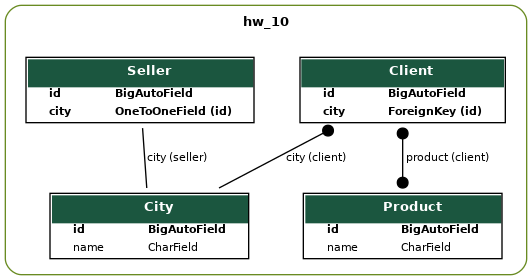
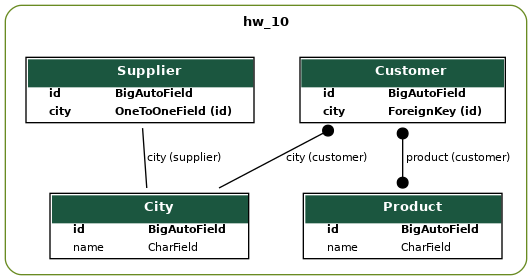
hw_10 commit

diff --git a/hw_10/migrations/0001_initial.py b/hw_10/migrations/0001_initial.py
@@ -1,4 +1,4 @@
-# Generated by Django 4.0 on 2022-01-07 21:43
+# Generated by Django 4.0 on 2022-01-10 00:30
 
 from django.db import migrations, models
 import django.db.models.deletion
@@ -27,14 +27,14 @@ class Migration(migrations.Migration):
             ],
         ),
         migrations.CreateModel(
-            name='Seller',
+            name='Supplier',
             fields=[
                 ('id', models.BigAutoField(auto_created=True, primary_key=True, serialize=False, verbose_name='ID')),
                 ('city', models.OneToOneField(on_delete=django.db.models.deletion.CASCADE, to='hw_10.city')),
             ],
         ),
         migrations.CreateModel(
-            name='Client',
+            name='Customer',
             fields=[
                 ('id', models.BigAutoField(auto_created=True, primary_key=True, serialize=False, verbose_name='ID')),
                 ('city', models.ForeignKey(on_delete=django.db.models.deletion.CASCADE, to='hw_10.city')),

diff --git a/hw_10/models.py b/hw_10/models.py
@@ -15,7 +15,7 @@ class Product(models.Model):
         return f'{self.name}'
 
 
-class Client(models.Model):
+class Customer(models.Model):
     product = models.ManyToManyField(Product)
     city = models.ForeignKey(City, on_delete=models.CASCADE)
 
@@ -23,7 +23,7 @@ class Client(models.Model):
         return f'{self.id}'
 
 
-class Seller(models.Model):
+class Supplier(models.Model):
     city = models.OneToOneField(City, on_delete=models.CASCADE)
 
     def __str__(self):
